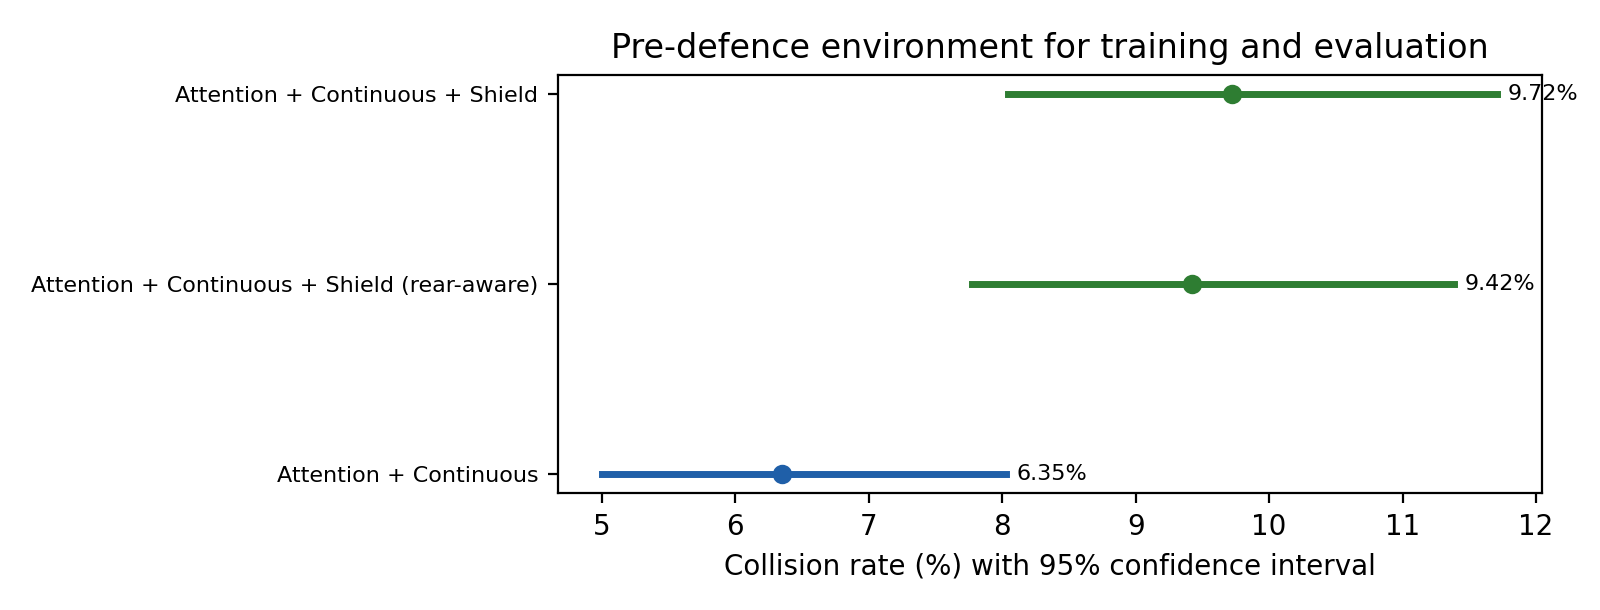
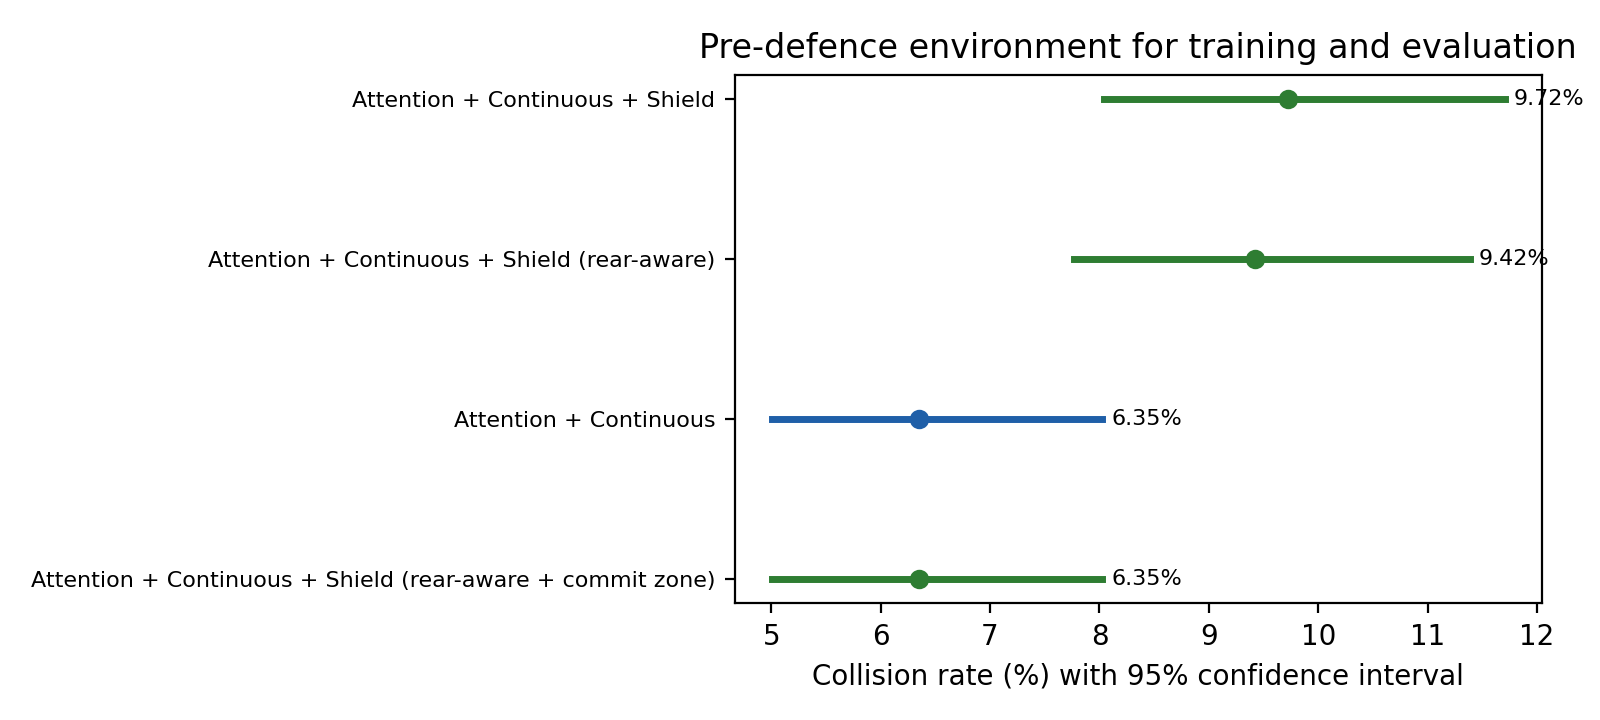
add rear-aware and commit-zone shield results in the pre-defence environment
Combining rear-aware braking with the commit zone brought collisions in
the pre-defence environment back to 6.35%, the same as the controller
without a shield (64 vs 64, p = 1.00), against 9.72% for the original
shield (p = 0.007). Overrides fell from 8.8% to 2.9% and travel time
from 26.7 s to 23.3 s. The written report now presents this as removing
the shield's harm rather than as a safety gain, and fills in every
per-intention result.

diff --git a/docs/RESULTS.md b/docs/RESULTS.md
@@ -16,11 +16,12 @@ Complete numeric tables with confidence intervals and significance tests are in
    attention-based PPO controller: path-based time-to-conflict braking, an RSS safe-distance
    override, and a right-before-left yielding rule. Every intervention is counted per layer.
 
-2. **In the pre-defence environment, used for both training and evaluation, the shield
-   significantly increased collisions.** Without the shield the controller collided in 6.35%
-   of episodes. With the shield it was 9.72% (p = 0.007), and with the rear-aware variant 9.42%
-   (p = 0.013). Background vehicles in that environment do not brake, so shield braking causes
-   rear-end collisions, and capping the braking trades those for crossing conflicts
+2. **In the pre-defence environment, used for both training and evaluation, the original
+   shield significantly increased collisions**: 6.35% without it, 9.72% with it (p = 0.007).
+   Background vehicles there do not brake, so shield braking causes rear-end collisions.
+   **Combining rear-aware braking with a commit zone removed that harm**: 6.35%, identical to
+   the controller without a shield (p = 1.00), with 2.9% of actions overridden. That variant is
+   significantly safer than the original shield (p = 0.007) but not safer than no shield
    (Section 3.6).
 
 3. **On the pre-defence benchmark, with the revised training pipeline, the shielded controller
@@ -37,11 +38,13 @@ Complete numeric tables with confidence intervals and significance tests are in
 5. **Attention-based control clearly outperforms heuristic control** (p < 0.001), confirming
    the central finding of the pre-defence study with 8,000+ new evaluation episodes.
 
-6. **Conclusion for Section 11.2.** A braking-only post-decision shield did not improve safety
-   for this attention-based PPO controller. It helped slightly and not significantly in the
-   benign benchmark, and it harmed significantly in the aggressive pre-defence environment,
-   where the policy learned to keep moving through traffic that does not yield. This points to
-   shield-aware training, in which the policy learns with the shield active, as the next step.
+6. **Conclusion for Section 11.2.** A post-decision shield did not yield a measurable safety
+   gain for this attention-based PPO controller. In the benign benchmark it helped slightly and
+   not significantly. In the aggressive pre-defence environment the original design harmed
+   significantly, because braking in front of traffic that does not yield causes rear-end
+   collisions. Adding rear awareness and a commit zone made the shield safety-neutral at a
+   modest efficiency cost. Shield-aware training, in which the policy learns with the shield
+   active, is the natural next step toward a net improvement.
 
 ---
 
@@ -200,16 +203,26 @@ Attention + Continuous was trained and evaluated in the pre-defence environment 
 | Attention + Continuous | **6.35%** | 5.00–8.03% | 92.1% | 21.5 s | — |
 | + Shield | 9.72% | 8.04–11.71% | 85.7% | 26.7 s | 8.8% |
 | + Shield, rear-aware | 9.42% | 7.77–11.39% | 86.4% | 26.5 s | 8.0% |
+| + Shield, rear-aware + commit zone | **6.35%** | 5.00–8.03% | 91.1% | 23.3 s | 2.9% |
 
-Shield vs no shield: 64 vs 98 collisions, p = 0.007. Rear-aware vs no shield: 64 vs 95,
-p = 0.013.
+| Comparison | Collisions | p |
+|---|---|---|
+| No shield vs shield | 64 vs 98 | 0.007 |
+| No shield vs rear-aware | 64 vs 95 | 0.013 |
+| No shield vs rear-aware + commit zone | 64 vs 64 | 1.00 |
+| Shield vs rear-aware + commit zone | 98 vs 64 | 0.007 |
 
-By intention, the damage concentrates in left turns:
+By intention, 252 episodes each:
 
-| Intention | No shield | Shield | Rear-aware |
-|---|---|---|---|
-| All straight | 1.2% | 1.6% | 2.8% |
-| All left | 11.1% | 23.8% | 19.4% |
+| Intention | No shield | Shield | Rear-aware | Rear-aware + commit zone |
+|---|---|---|---|---|
+| All straight | 1.2% | 1.6% | 2.8% | 0.8% |
+| All left | 11.1% | 23.8% | 19.4% | 14.3% |
+| Uniform random | 6.3% | 9.5% | 9.5% | 4.4% |
+| Asymmetric random | 6.7% | 4.0% | 6.0% | 6.0% |
+
+The rear-aware + commit zone variant is lower than no shield on three intentions and higher on
+all-left; none of these per-intention differences is significant (all p ≥ 0.35).
 
 **Why the shield hurts here.** In this environment background vehicles use `speed_mode` 0 and
 do not brake for the agent. The controller trained there learned to keep moving through traffic
@@ -220,9 +233,12 @@ variant caps shield braking when a follower is close; it removed some rear-end c
 (60 → 49 on left turns) but prevented the shield from braking for genuine crossing conflicts,
 so the total barely changed.
 
-A further variant combining rear awareness with the commit zone was run afterwards as a
-follow-up; its result is in Section D of [`results_tables.md`](results_tables.md). It is reported
-alongside the others rather than in place of them.
+**Rear awareness plus commit zone.** The commit zone stops the shield braking once the agent
+can no longer stop before the conflict point, which removes most braking inside the junction
+where rear-end collisions occurred. Combined with rear awareness, overrides fell from 8.8% to
+2.9% and collisions returned to the no-shield level. This variant was designed as a follow-up
+after the failures above were observed, and it is reported alongside the others rather than in
+place of them.
 
 ---
 

diff --git a/docs/results_tables.md b/docs/results_tables.md
@@ -79,11 +79,13 @@ Attention + Continuous trained with `--train-profile ibrahima` and evaluated wit
 | Attention + Continuous | 6.35% | 5.00-8.03% | 64/1008 | 92.1% | 21.5 s | - |
 | Attention + Continuous + Shield | 9.72% | 8.04-11.71% | 98/1008 | 85.7% | 26.7 s | 8.8% |
 | Attention + Continuous + Shield (rear-aware) | 9.42% | 7.77-11.39% | 95/1008 | 86.4% | 26.5 s | 8.0% |
+| Attention + Continuous + Shield (rear-aware + commit zone) | 6.35% | 5.00-8.03% | 64/1008 | 91.1% | 23.3 s | 2.9% |
 
 Rear-aware settings were fixed before evaluation: follower time gap 1.5 s, shield braking capped at -1.0 m/s2 when a follower is closer than that.
 
 - Shield: 64 vs 98 collisions, p = 0.007
 - Rear-aware shield: 64 vs 95 collisions, p = 0.013
+- Rear-aware + commit-zone shield: 64 vs 64 collisions, p = 1.000
 
 ## C. Comparison with the pre-defence study
 
